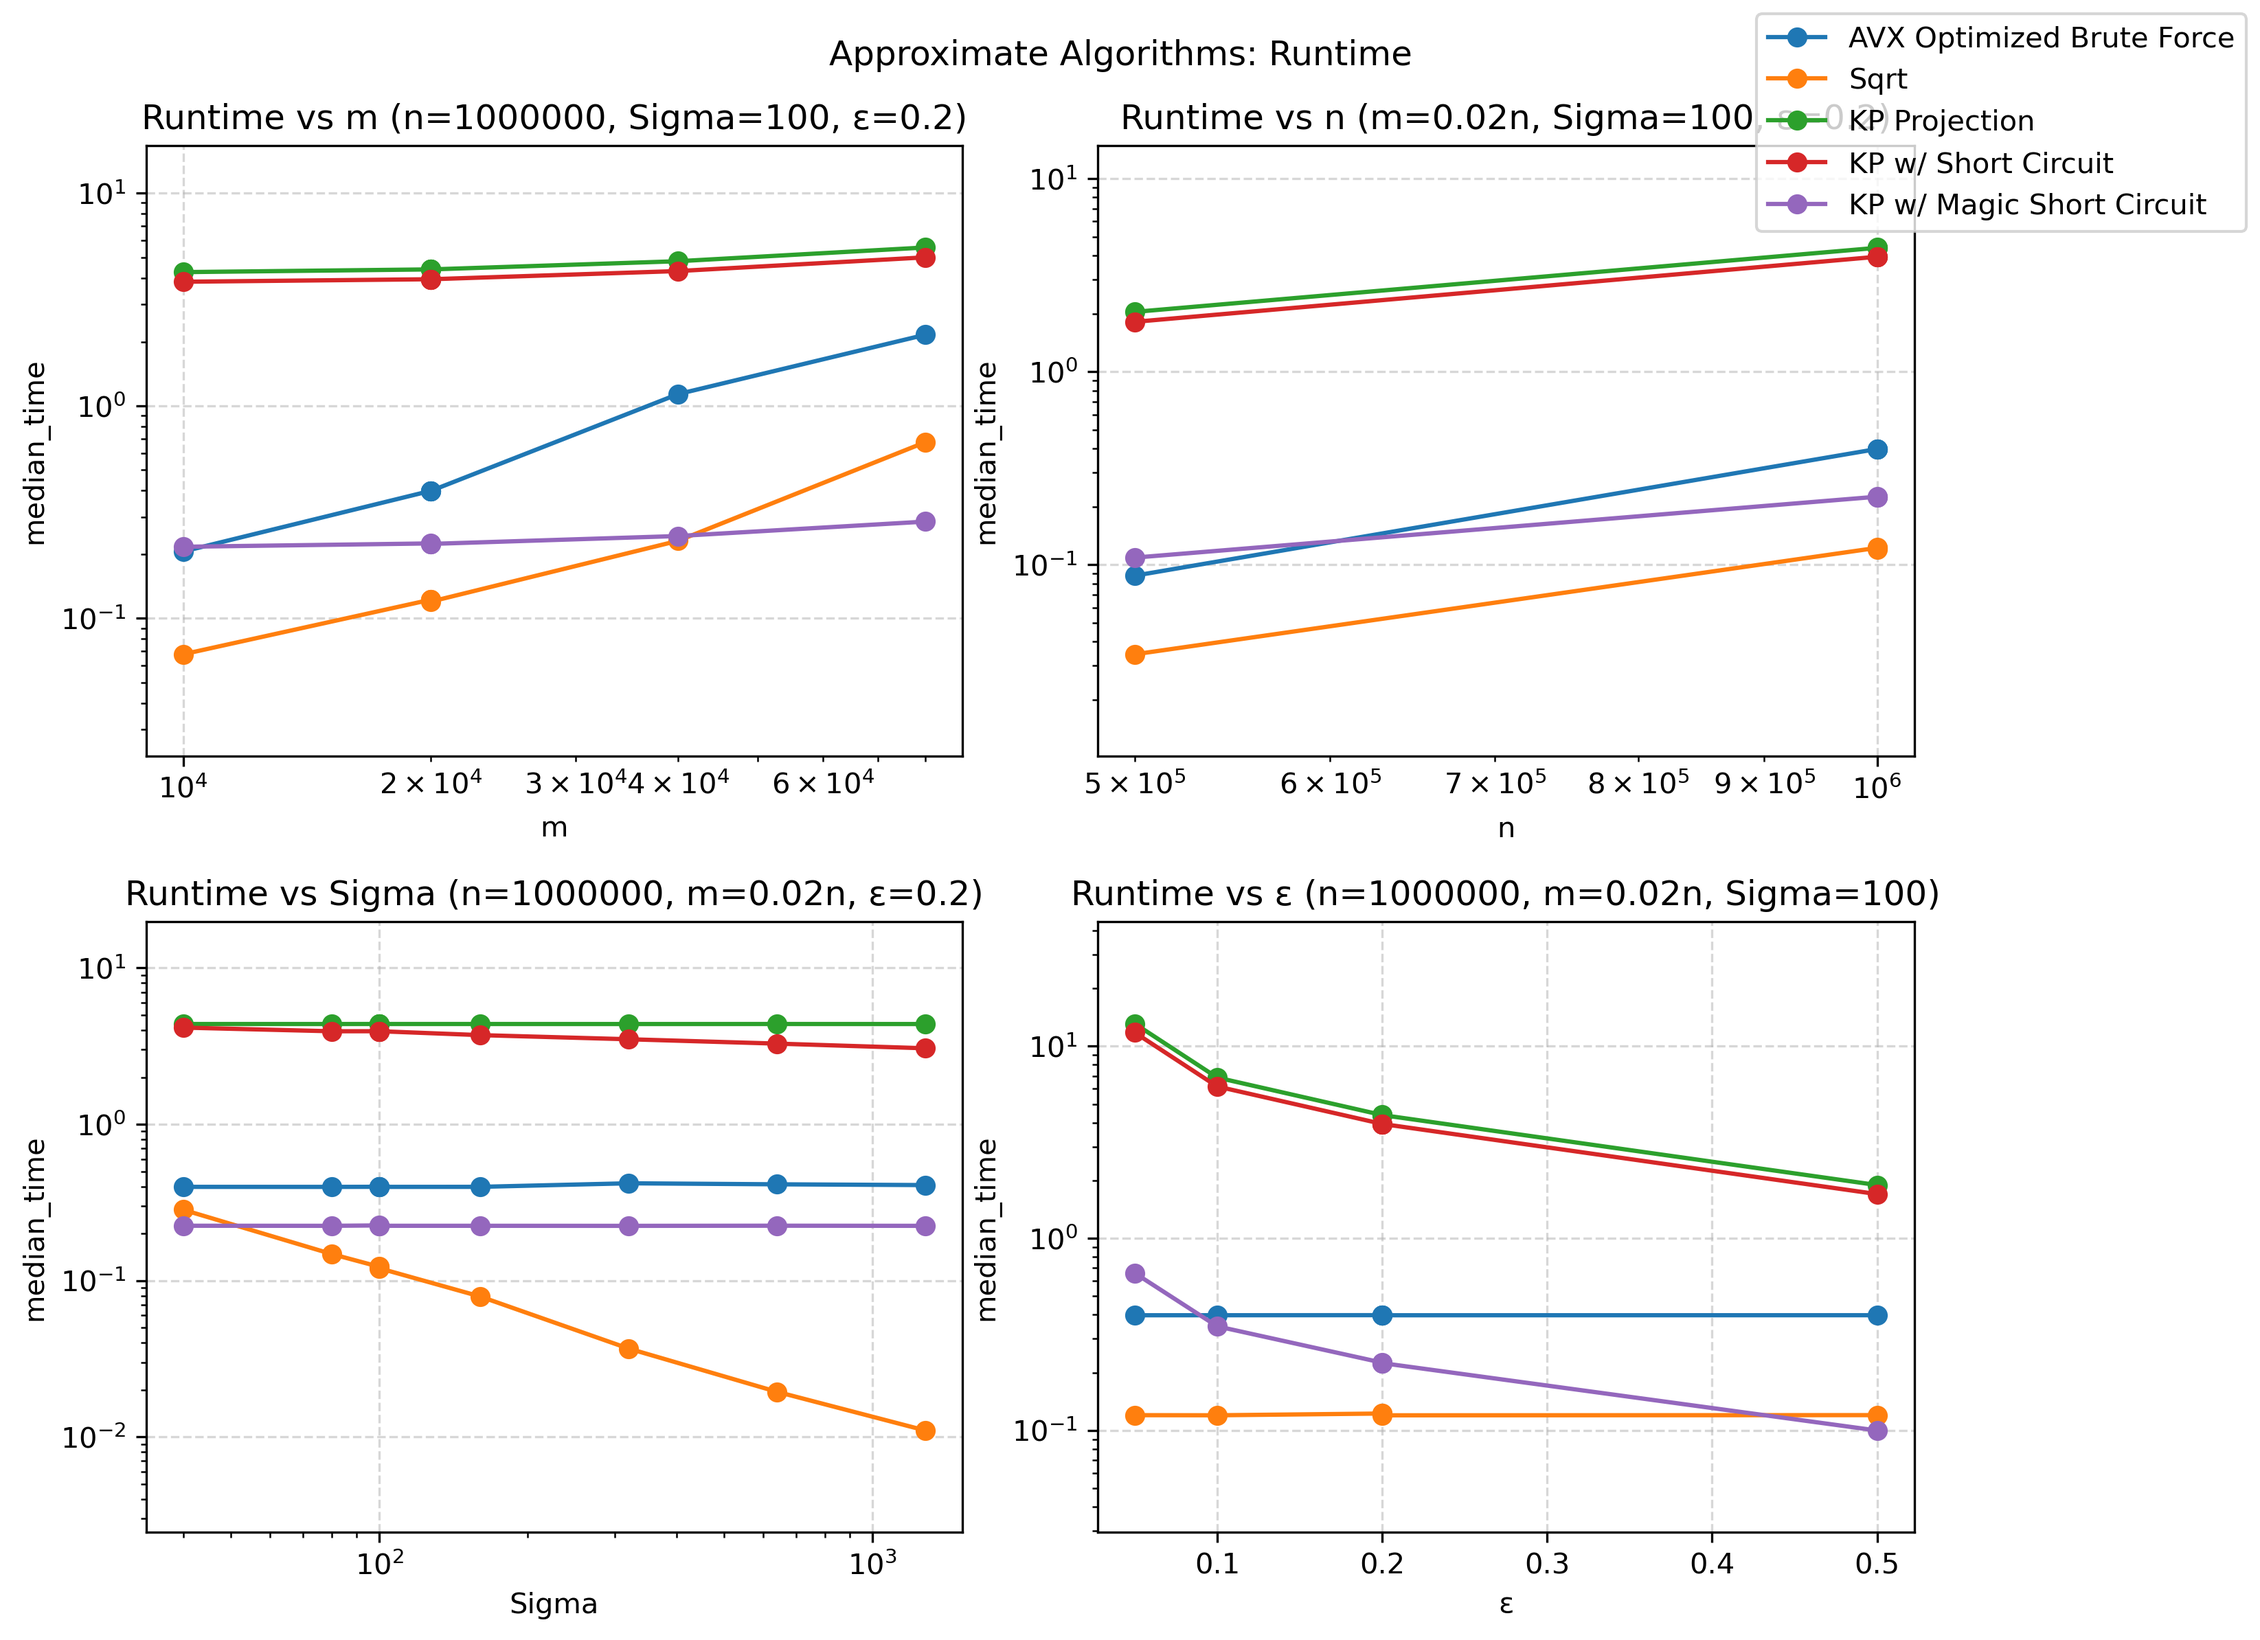
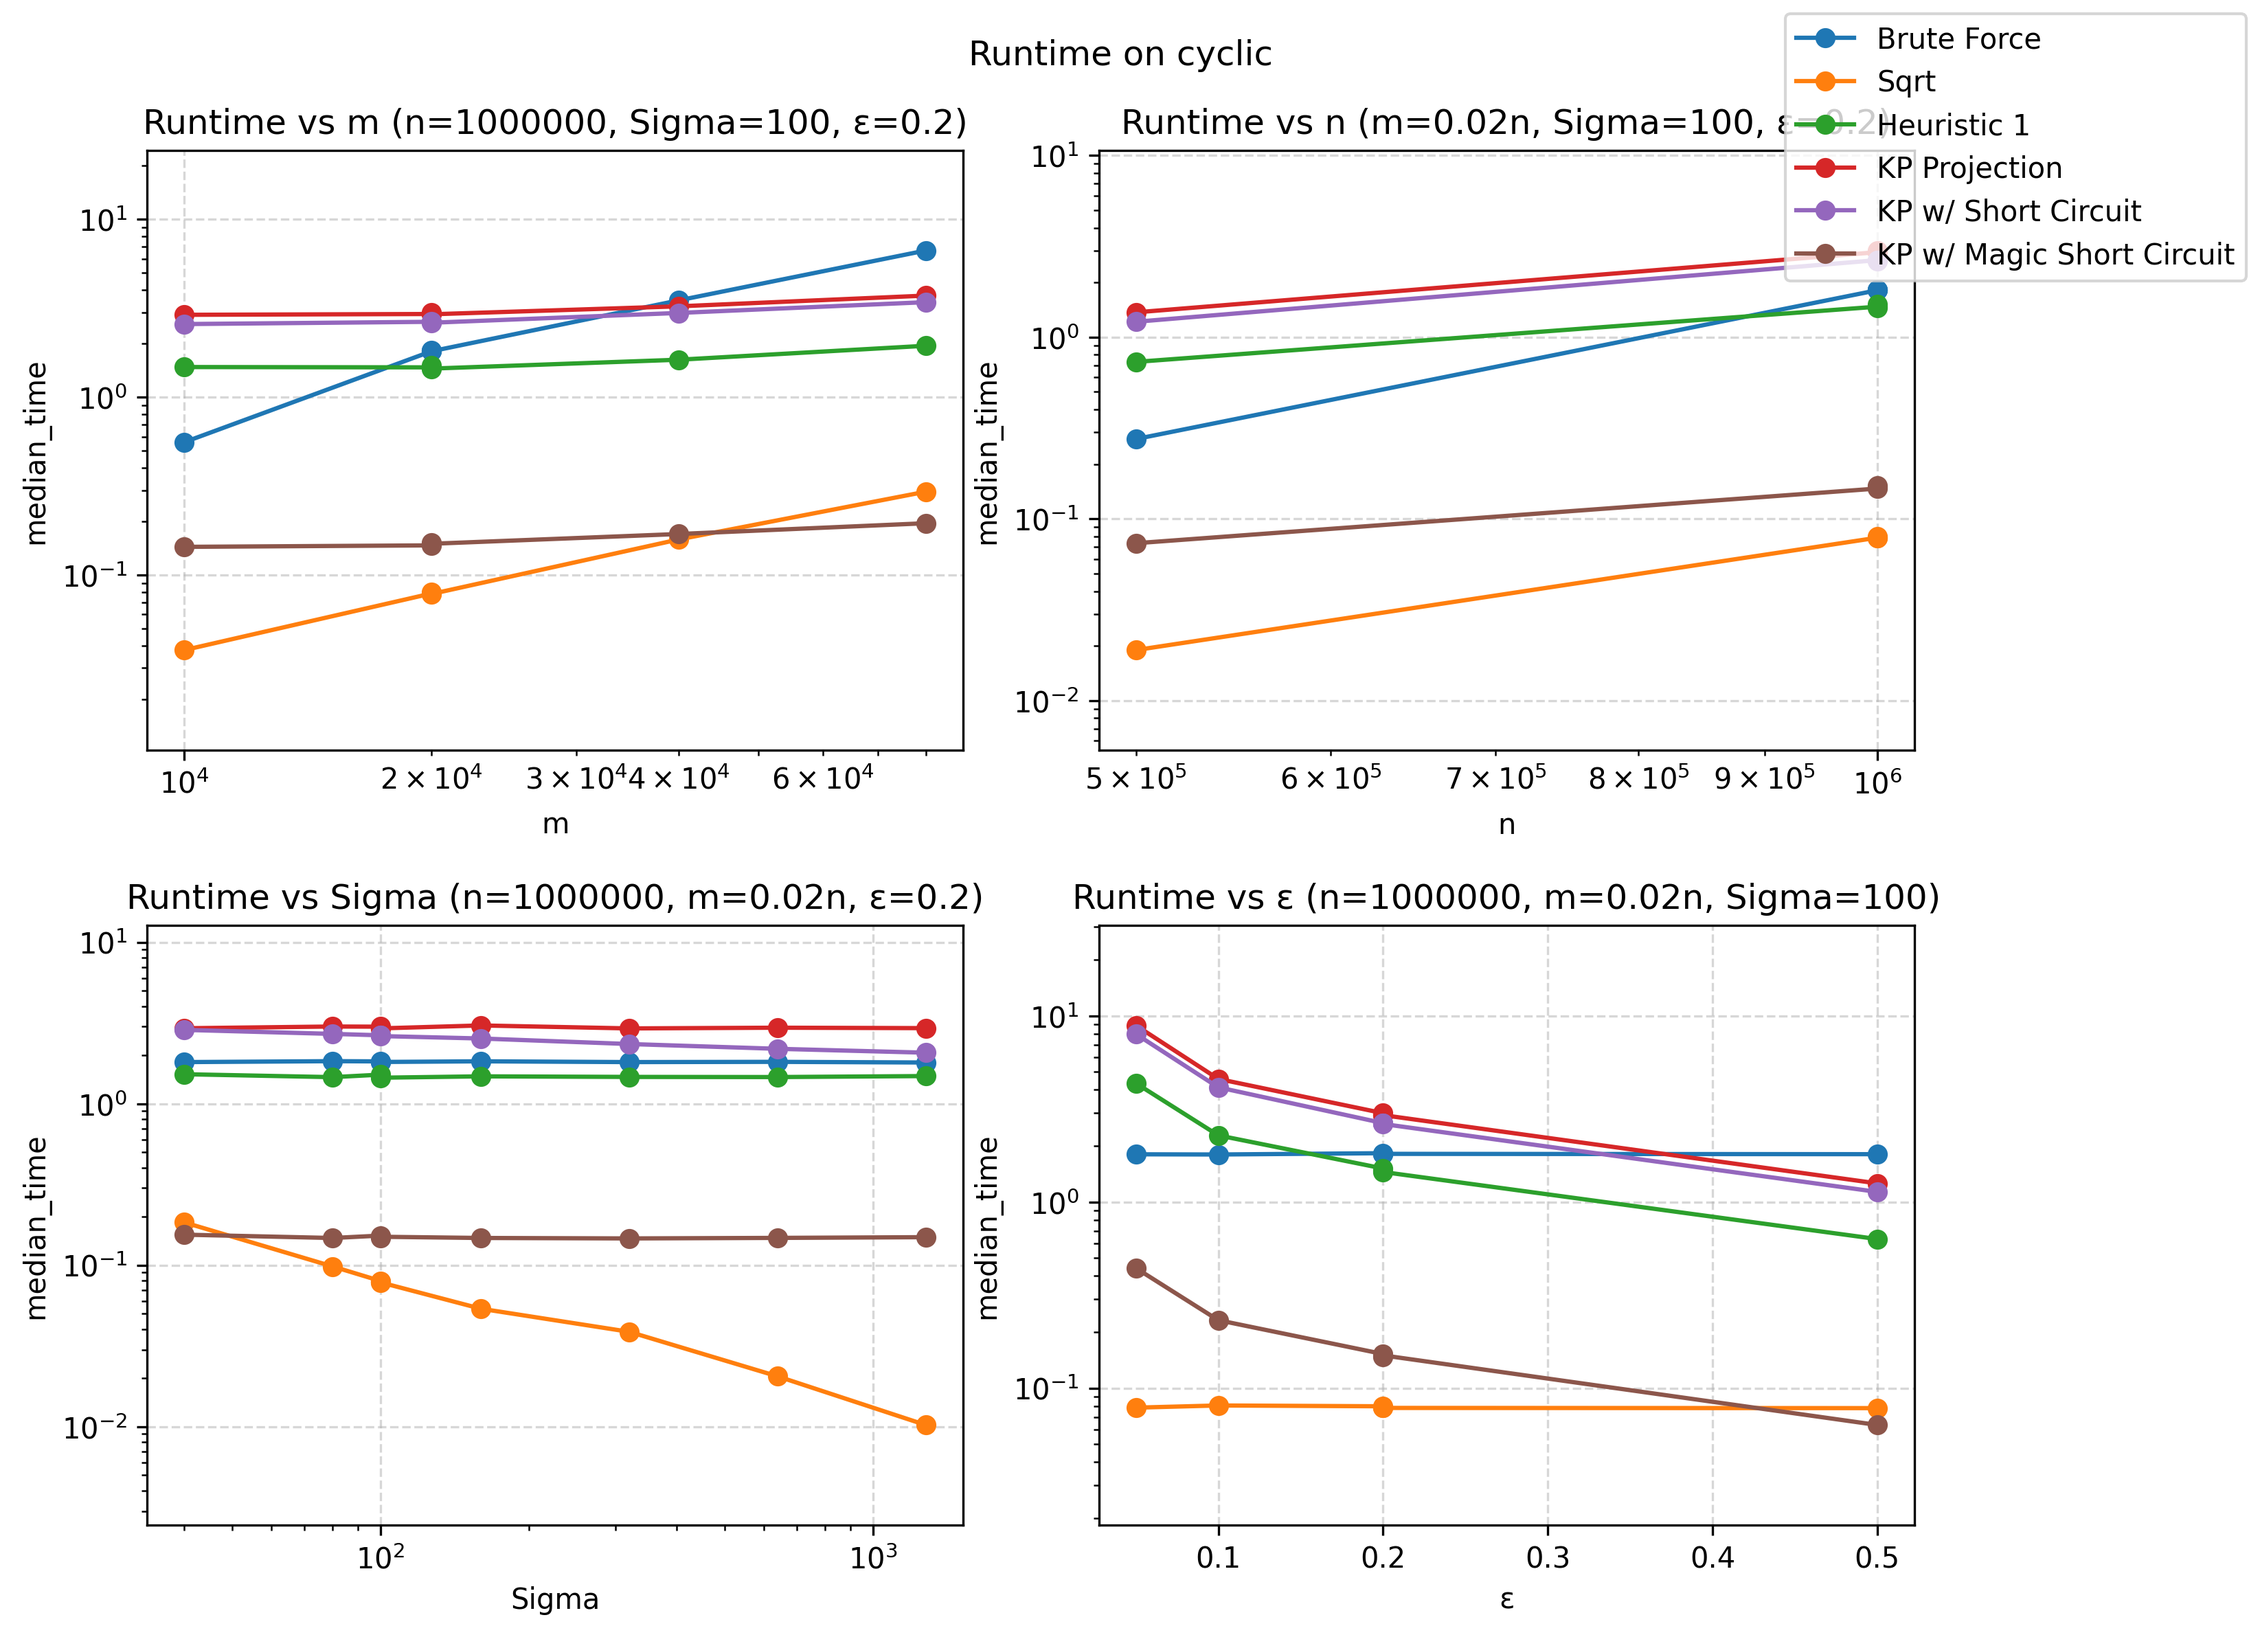
Regenerated graphs

diff --git a/src/plotting_new.py b/src/plotting_new.py
@@ -5,8 +5,8 @@ import matplotlib.pyplot as plt
 # -------------------------------------------------
 # Load data and define short algorithm names
 # -------------------------------------------------
-FILENAME = "cyclic"
-df = pd.read_csv("../results/" + FILENAME + ".csv").copy()
+GEN_NAME = "uniform"
+df = pd.read_csv("../results/" + GEN_NAME + ".csv").copy()
 
 name_map = {
     "Brute force": "Brute Force",
@@ -24,8 +24,11 @@ name_map = {
 df["short_name"] = df["algo_name"].map(name_map)
 
 # approx_algos = ["KP Projection", "Heuristic 1", "Heuristic 2", "Heuristic 3"]
-approx_algos = ["Heuristic 1", "KP Projection", "KP w/ Short Circuit", "KP w/ Magic Short Circuit"] # cyclic
+approx_algos = ["Heuristic 1", "KP Projection", "KP w/ Short Circuit", "KP w/ Magic Short Circuit"]
 exact_algos  = ["Brute Force", "Sqrt"]
+
+# approx_algos = ["KP w/ Short Circuit", "KP w/ Magic Short Circuit"]
+# exact_algos  = []
 
 # helpful: m/n
 df["m_frac"] = df["m"] / df["n"]
@@ -34,7 +37,7 @@ df["m_frac"] = df["m"] / df["n"]
 baseline_n = 1_000_000
 baseline_sigma = 100
 baseline_eps = 0.2
-baseline_m_frac = 0.02
+baseline_m_frac = 0.2
 
 # -------------------------------------------------
 # Helper to plot group on a given axis
@@ -102,7 +105,7 @@ fig1, axes1 = plt.subplots(2, 2, figsize=(11, 8))
 # custom_ticks = [5e4, 1e5, 5e5]
 # custom_labels = [rf"$5\cdot10^{4}$", rf"$10^{5}$", rf"$5\cdot10^{5}$"]
 plot_group_on_ax(
-    axes1[0, 0], sub_m, approx_algos,
+    axes1[0, 0], sub_m, exact_algos + approx_algos,
     x_col="m",
     metric="median_time",
     x_label="m",
@@ -113,7 +116,7 @@ plot_group_on_ax(
 )
 
 plot_group_on_ax(
-    axes1[0, 1], sub_n, approx_algos,
+    axes1[0, 1], sub_n, exact_algos + approx_algos,
     x_col="n",
     metric="median_time",
     x_label="n",
@@ -122,7 +125,7 @@ plot_group_on_ax(
 )
 
 plot_group_on_ax(
-    axes1[1, 0], sub_sigma, approx_algos,
+    axes1[1, 0], sub_sigma, exact_algos + approx_algos,
     x_col="sigma",
     metric="median_time",
     x_label="Sigma",
@@ -131,7 +134,7 @@ plot_group_on_ax(
 )
 
 plot_group_on_ax(
-    axes1[1, 1], sub_eps, approx_algos,
+    axes1[1, 1], sub_eps, exact_algos + approx_algos,
     x_col="eps",
     metric="median_time",
     x_label="ε",
@@ -140,7 +143,7 @@ plot_group_on_ax(
 )
 
 handles, labels = axes1[0, 0].get_legend_handles_labels()
-fig1.suptitle("Approximate Algorithms: Runtime", y=0.98)
+fig1.suptitle(f"Runtime on {GEN_NAME}", y=0.98)
 
 fig1.tight_layout()
 
@@ -151,122 +154,5 @@ fig1.legend(
     ncol=1,
 )
 
-fig1.savefig("../figures/approx_runtime_" + FILENAME + ".png", dpi=300, bbox_inches="tight")
-# plt.show()
-
-
-
-# =====================================================
-# FIGURE 2 — Approx algos: AVG RATIO panels
-# =====================================================
-fig2, axes2 = plt.subplots(2, 2, figsize=(11, 8))
-
-plot_group_on_ax(
-    axes2[0, 0], sub_m, approx_algos,
-    x_col="m",
-    metric="median_ratio",
-    x_label="m",
-    title=f"Approx ratio vs m (n={baseline_n}, Sigma={baseline_sigma}, ε={baseline_eps})",
-    log_x=True, log_y=False,
-    # xticks=custom_ticks,
-    # xticklabels=custom_labels
-)
-
-plot_group_on_ax(
-    axes2[0, 1], sub_n, approx_algos,
-    x_col="n",
-    metric="median_ratio",
-    x_label="n",
-    title=f"Approx ratio vs n (m={baseline_m_frac}n, Sigma={baseline_sigma}, ε={baseline_eps})",
-    log_x=True, log_y=False,
-)
-
-plot_group_on_ax(
-    axes2[1, 0], sub_sigma, approx_algos,
-    x_col="sigma",
-    metric="median_ratio",
-    x_label="Sigma",
-    title=f"Approx ratio vs Sigma (n={baseline_n}, m={baseline_m_frac}n, ε={baseline_eps})",
-    log_x=True, log_y=False,
-)
-
-plot_group_on_ax(
-    axes2[1, 1], sub_eps, approx_algos,
-    x_col="eps",
-    metric="median_ratio",
-    x_label="ε",
-    title=f"Approx ratio vs ε (n={baseline_n}, m={baseline_m_frac}n, Sigma={baseline_sigma})",
-    log_x=False, log_y=False,
-)
-
-handles2, labels2 = axes2[0, 0].get_legend_handles_labels()
-fig2.suptitle("Approximate Algorithms: Approximation Ratio", y=0.98)
-fig2.tight_layout()
-
-fig2.subplots_adjust(right=RIGHT_MARGIN)
-fig2.legend(
-    handles2, labels2,
-    loc=LEGEND_LOC,
-    ncol=1,
-)
-
-fig2.savefig("../figures/approx_ratio_" + FILENAME + ".png", dpi=300, bbox_inches="tight")
-# plt.show()
-
-
-# =====================================================
-# FIGURE 3 — Exact algos: AVG TIME panels (Brute + Sqrt)
-# =====================================================
-fig3, axes3 = plt.subplots(2, 2, figsize=(11, 8))
-
-plot_group_on_ax(
-    axes3[0, 0], sub_m, exact_algos,
-    x_col="m",
-    metric="median_time",
-    x_label="m",
-    title=f"Exact runtime vs m (n={baseline_n}, Sigma={baseline_sigma}, ε={baseline_eps})",
-    log_x=True, log_y=True,
-    # xticks=custom_ticks,
-    # xticklabels=custom_labels
-)
-
-plot_group_on_ax(
-    axes3[0, 1], sub_n, exact_algos,
-    x_col="n",
-    metric="median_time",
-    x_label="n",
-    title=f"Exact runtime vs n (m={baseline_m_frac}n, Sigma={baseline_sigma}, ε={baseline_eps})",
-    log_x=True, log_y=True,
-)
-
-plot_group_on_ax(
-    axes3[1, 0], sub_sigma, exact_algos,
-    x_col="sigma",
-    metric="median_time",
-    x_label="Sigma",
-    title=f"Exact runtime vs Sigma (n={baseline_n}, m={baseline_m_frac}n, ε={baseline_eps})",
-    log_x=True, log_y=True,
-)
-
-plot_group_on_ax(
-    axes3[1, 1], sub_eps, exact_algos,
-    x_col="eps",
-    metric="median_time",
-    x_label="ε",
-    title=f"Exact runtime vs ε (n={baseline_n}, m={baseline_m_frac}n, Sigma={baseline_sigma})",
-    log_x=False, log_y=True,
-)
-
-handles3, labels3 = axes3[0, 0].get_legend_handles_labels()
-fig3.suptitle("Exact Algorithms (Brute Force & Sqrt): Runtime", y=0.98)
-fig3.tight_layout()
-
-fig3.subplots_adjust(right=RIGHT_MARGIN)
-fig3.legend(
-    handles3, labels3,
-    loc=LEGEND_LOC,
-    ncol=1,
-)
-
-fig3.savefig("../figures/exact_runtime_" + FILENAME + ".png", dpi=300, bbox_inches="tight")
-# plt.show()
+fig1.savefig("../figures/approx_runtime_" + GEN_NAME + ".png", dpi=300, bbox_inches="tight")
+plt.show()
